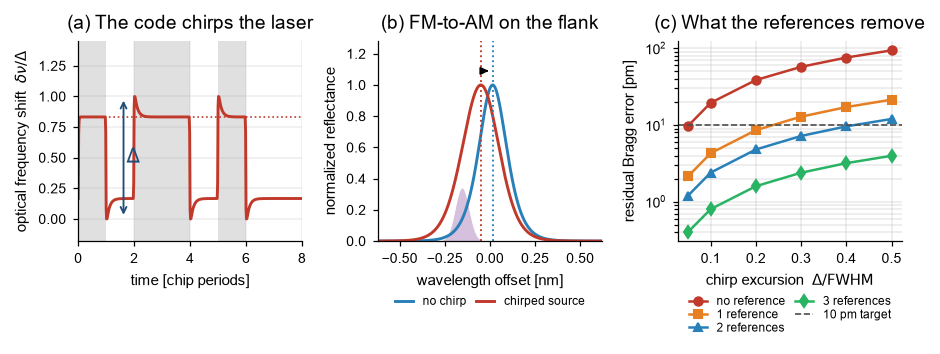
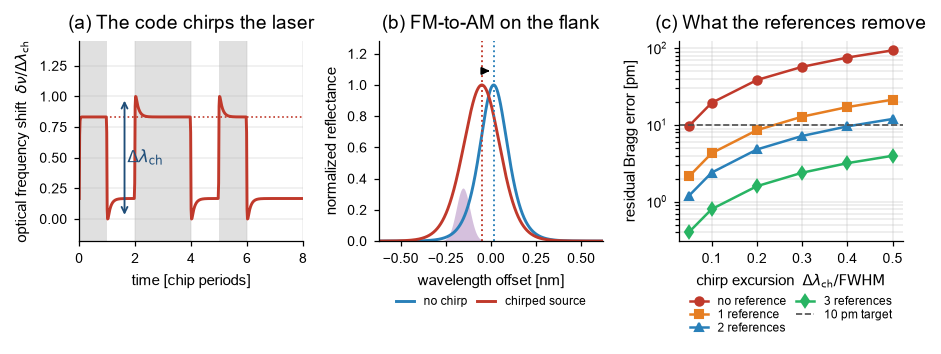
s32/s33: weryfikacja uwag recenzenta; etykiety Delta w s26/s18
s32: linijka Golomba pod kodem OKRESOWYM. Recenzent mial racje: optymalna
14-znacznikowa linijka o dlugosci 127 zajmuje 128 binow (znacznik 127
aliasuje sie na 0), a duchy spoza rozpietosci zawijaja sie mod N - po
zawinieciu 59/819 (7.2%) kolizji, tyle co losowo (9.3%). Naprawa: linijka
modularna (roznice rozne mod N), zachlanne szukanie daje 10 znacznikow
przy N=127 i 17 przy N=511, zero kolizji po zawinieciu. Policzone tez
bliskie kolizje (1 bin od znacznika).

s33: odpornosc repliki +1. Zarzut o przecieku f/(1-f) przy ulamkowym
opoznieniu NIE potwierdza sie: odbiornik jest liniowy, pik dzieli sie
miedzy dwa sasiednie biny, przeciek gdzie indziej 1e-16 dla f do 0.5.
Jitter probkowania do 0.1 chipa: zero (baseline trzyma -1/N). Rampa
intensywnosci: obie architektury cierpia podobnie, +1 nawet mniej.
Staly offset: plaski pedestal. Zostaje wymog sprzezenia DC.

s26/s18: legenda 'upstream center Delta lambda_jk', osie i strzalka
'Delta lambda_ch' zamiast golego Delta (dwa znaczenia w dwoch figurach).

diff --git a/python_selfcal_cdm/s32_golomb_modular.py b/python_selfcal_cdm/s32_golomb_modular.py
@@ -1,0 +1,105 @@
+"""s32_golomb_modular.py - the Golomb-ruler claim under a PERIODIC code.
+
+Referee finding (29.08.2026): the s31 argument ignored two things. First,
+the optimal 14-mark ruler has LENGTH 127, so it occupies bins 0..127, which
+is 128 bins, one more than an N = 127 code offers, and the last mark aliases
+onto the first. Second, the correlation is periodic, so a ghost delay beyond
+the span does not vanish, it folds back modulo N and can land on an occupied
+bin. Both points are checked here, and the repair is checked too: a MODULAR
+Golomb ruler (all pairwise differences distinct modulo N) makes the collision
+argument exact under wrap-around. Its size is bounded near sqrt(N).
+
+Also counted: near-collisions, ghosts landing exactly one bin from an
+occupied mark, inside the two-chip triangular correlation footprint.
+"""
+import numpy as np
+
+RULER_A = [0, 4, 6, 20, 35, 52, 59, 77, 78, 86, 89, 99, 122, 127]   # s31
+RULER_B = [0, 5, 28, 38, 41, 49, 50, 68, 75, 92, 107, 121, 123, 127]  # referee
+
+
+def ghosts(marks):
+    """All third-order paths (a, b, c) with b strictly before a and c,
+    c != b (a == c allowed). Returns list of raw ghost delays."""
+    m = sorted(set(int(x) for x in marks))
+    out = []
+    for ib, b in enumerate(m):
+        later = m[ib + 1:]
+        for a in later:
+            for c in later:
+                out.append(a - b + c)
+    return np.array(out)
+
+
+def stats(marks, N):
+    occ = set(int(x) % N for x in marks)
+    g = ghosts(marks)
+    gw = g % N
+    beyond = int(np.sum(g >= N))
+    coll = int(np.sum([x in occ for x in gw]))
+    near = int(np.sum([((x + 1) % N in occ) or ((x - 1) % N in occ) for x in gw]))
+    return len(g), beyond, coll, near
+
+
+def is_modular_golomb(marks, N):
+    m = np.asarray(marks)
+    d = (m[None, :] - m[:, None]) % N
+    d = d[~np.eye(len(m), dtype=bool)]
+    return len(np.unique(d)) == len(d)
+
+
+def search_modular(N, k, tries, rng):
+    """Randomized greedy search for a k-mark modular Golomb ruler mod N."""
+    for _ in range(tries):
+        marks = [0]
+        used = set()
+        cand = list(rng.permutation(np.arange(1, N)))
+        for x in cand:
+            diffs = {(x - y) % N for y in marks} | {(y - x) % N for y in marks}
+            if len(diffs) == 2 * len(marks) and not (diffs & used):
+                marks.append(int(x))
+                used |= diffs
+                if len(marks) == k:
+                    return sorted(marks)
+    return None
+
+
+rng = np.random.default_rng(32)
+N = 127
+
+print('=== 14-mark optimal rulers under a periodic N = 127 code ===')
+for name, r in (('ruler A (s31)', RULER_A), ('ruler B (referee)', RULER_B)):
+    print('  %-18s distinct bins mod N: %d of 14  (mark 127 == mark 0)'
+          % (name, len(set(x % N for x in r))))
+    p, beyond, coll, near = stats(r, N)
+    print('      paths %d, beyond span %d, collisions after wrap %d (%.1f%%),'
+          ' one bin from a mark %d' % (p, beyond, coll, 100.0 * coll / p, near))
+
+print()
+print('=== references under the same wrap-around rule, K = 14 ===')
+u = np.arange(14) * 9
+p, beyond, coll, near = stats(u, N)
+print('  uniform pitch 9  : collisions %d of %d (%.0f%%)' % (coll, p, 100.0 * coll / p))
+fr = []
+for _ in range(300):
+    r = np.sort(rng.choice(np.arange(N), size=14, replace=False))
+    p, beyond, coll, near = stats(r, N)
+    fr.append(coll / p)
+print('  randomized (300) : mean %.1f%% collisions' % (100 * np.mean(fr)))
+
+print()
+print('=== repair: modular Golomb rulers (all differences distinct mod N) ===')
+for NN in (127, 511):
+    best = None
+    for k in range(8, 30):
+        m = search_modular(NN, k, tries=400, rng=rng)
+        if m is None:
+            break
+        best = (k, m)
+    k, m = best
+    assert is_modular_golomb(m, NN)
+    p, beyond, coll, near = stats(m, NN)
+    print('  N = %3d: found k = %2d marks, sqrt(N) = %.1f, collisions after wrap %d of %d,'
+          ' one bin from a mark %d' % (NN, k, np.sqrt(NN), coll, p, near))
+    if NN == 127:
+        print('           marks:', m)

diff --git a/python_selfcal_cdm/s33_ncpc_robustness.py b/python_selfcal_cdm/s33_ncpc_robustness.py
@@ -1,0 +1,84 @@
+"""s33_ncpc_robustness.py - does the +1 replica survive fractional delays,
+jitter and drift? (referee finding B3, 29.08.2026)
+
+The referee claims that a return displaced by a fraction f of a chip leaks
+f/(1-f) of its peak into EVERY other bin under the +1 replica, so the scheme
+loses to the -1/N floor already at f = 0.008 chip. That would be fatal,
+because rule 3 randomizes grating positions. It is checked here with an
+oversampled waveform: rectangular chips, fractional delay, boxcar integration
+over one chip, then chip-rate samples. Linearity says the answer in advance:
+a fractional shift is a two-tap mix of adjacent integer shifts, and the
+cyclic inverse maps each to a delta, so the peak splits between two adjacent
+bins and nothing reaches the others. Random per-sample jitter and a linear
+intensity ramp are checked the same way, for both receivers.
+"""
+import numpy as np
+import common as C
+
+N = 127
+OS = 200                                    # samples per chip, oversampled
+c01 = C._mls01(7).astype(float)
+msb = 2.0 * c01 - 1.0                       # +1 replica (sum = +1)
+wave = np.repeat(c01, OS)                   # one period, rectangular chips
+
+
+def record(delay_chips, ramp=0.0, jitter=0.0, rng=None):
+    """Chip-rate samples of one period returned with a (fractional) delay,
+    boxcar-integrated over each chip, optional linear ramp of relative
+    amplitude 'ramp' across the period and per-sample timing jitter."""
+    shift = int(round(delay_chips * OS))
+    w = np.roll(wave, shift)
+    if ramp:
+        w = w * (1.0 + ramp * (np.arange(N * OS) / (N * OS) - 0.5))
+    if jitter and rng is not None:
+        jit = rng.normal(0.0, jitter * OS, N).astype(int)
+        idx = (np.arange(N) * OS + OS // 2 + jit) % (N * OS)   # sample at chip centre
+        return w[idx]                        # instantaneous samples with jitter
+    return w.reshape(N, OS).mean(axis=1)
+
+
+def rx_plus(y):
+    return np.real(np.fft.ifft(np.fft.fft(y) * np.fft.fft(msb).conj()))
+
+
+def rx_mean(y):
+    return np.real(np.fft.ifft(np.fft.fft(y - y.mean()) * np.fft.fft(msb).conj()))
+
+
+def leak(z, k):
+    """Largest |output| outside bins k and k+1, relative to the peak."""
+    pk = np.abs(z[[k, (k + 1) % N]]).max()
+    mask = np.ones(N, bool); mask[[k, (k + 1) % N]] = False
+    return np.abs(z[mask]).max() / pk
+
+
+print('=== fractional delay f (chips), boxcar sampling, no noise ===')
+print('   f       +1 replica leak   mean-removed leak   (floor -1/N = %.4f)' % (1.0 / N))
+for f in (0.0, 0.05, 0.1, 0.25, 0.5):
+    y = record(40 + f)
+    print('  %4.2f     %10.2e         %10.4f' % (f, leak(rx_plus(y), 40), leak(rx_mean(y), 40)))
+
+print()
+print('=== random per-sample timing jitter (RMS, chips), 50 trials ===')
+rng = np.random.default_rng(33)
+for sj in (0.02, 0.05, 0.1, 0.2):
+    lp, lm = [], []
+    for _ in range(50):
+        y = record(40, jitter=sj, rng=rng)
+        lp.append(leak(rx_plus(y), 40)); lm.append(leak(rx_mean(y), 40))
+    print('  sigma_t = %.2f: +1 replica %.4f, mean-removed %.4f' % (sj, np.mean(lp), np.mean(lm)))
+
+print()
+print('=== linear intensity ramp across one period ===')
+for r in (0.0, 0.05, 0.127, 0.3):
+    y = record(40, ramp=r)
+    print('  ramp %.3f: +1 replica %.4f, mean-removed %.4f' % (r, leak(rx_plus(y), 40), leak(rx_mean(y), 40)))
+
+print()
+print('=== constant offset d (per unit peak) ===')
+for d in (0.1, 0.5):
+    y = record(40) + d
+    zp = rx_plus(y); z0 = rx_plus(record(40))
+    ped = zp - z0
+    print('  d = %.1f: pedestal mean %.4f, std %.1e (flat -> baseline term removes it)'
+          % (d, ped.mean() / z0[40], ped.std() / z0[40]))

diff --git a/python_selfcal_cdm/s18_source.py b/python_selfcal_cdm/s18_source.py
@@ -129,12 +129,12 @@ ax[0].plot(t, nu_inst, color='#c0392b', lw=1.4)
 ax[0].set_ylim(-0.18, 1.45)
 ax[0].set_xlim(0, 8)
 ax[0].set_xlabel('time [chip periods]')
-ax[0].set_ylabel('optical frequency shift  ' + r'$\delta\nu/\Delta$')
+ax[0].set_ylabel('optical frequency shift  ' + r'$\delta\nu/\Delta\lambda_{\mathrm{ch}}$')
 ax[0].set_title('(a) The code chirps the laser', fontsize=9)
 ax[0].axhline(plateau, color='#c0392b', ls=':', lw=0.8)
 ax[0].annotate('', xy=(1.62, 0.0), xytext=(1.62, 1.0),
                arrowprops=dict(arrowstyle='<->', lw=0.9, color='#1f4e79'))
-ax[0].text(1.72, 0.5, r'$\Delta$', color='#1f4e79', fontsize=9.5, ha='left',
+ax[0].text(1.72, 0.5, r'$\Delta\lambda_{\mathrm{ch}}$', color='#1f4e79', fontsize=8.0, ha='left',
            va='center')
 ax[0].grid(True, alpha=0.2)
 
@@ -167,7 +167,7 @@ for n in (0, 1, 2, 3):
     ax[2].plot(ratios, curves[n], mk, color=col, lw=1.2, ms=4, label=lab)
 ax[2].axhline(10.0, color='0.3', ls='--', lw=0.8, label='10 pm target')
 ax[2].set_yscale('log')
-ax[2].set_xlabel('chirp excursion  ' + r'$\Delta/\mathrm{FWHM}$')
+ax[2].set_xlabel('chirp excursion  ' + r'$\Delta\lambda_{\mathrm{ch}}/\mathrm{FWHM}$')
 ax[2].set_ylabel('residual Bragg error [pm]')
 ax[2].set_title('(c) What the references remove', fontsize=9)
 ax[2].legend(fontsize=5.8, loc='upper center', bbox_to_anchor=(0.5, -0.22),

diff --git a/python_selfcal_cdm/s26_laws_concept.py b/python_selfcal_cdm/s26_laws_concept.py
@@ -59,7 +59,7 @@ a.plot(nu, fit, color=FS.VERM, lw=0.9, ls=(0, (3, 1.7)), label='fit')
 a.axvline(0.0, color='0.45', lw=0.65, ls=(0, (2, 2)))
 a.axvline(mu, color=FS.VERM, lw=0.75, ls=(0, (2, 2)))
 a.axvline(DET, color=FS.BLUE, lw=0.65, ls=(0, (2, 2)),
-          label=r'upstream center $\Delta$')
+          label=r'upstream center $\Delta\lambda_{jk}$')
 a.annotate('', xy=(mu, 1.035), xytext=(0.0, 1.035),
            arrowprops=dict(arrowstyle='<->', color=FS.VERM, lw=0.8))
 a.set_xlim(-320, 340)
